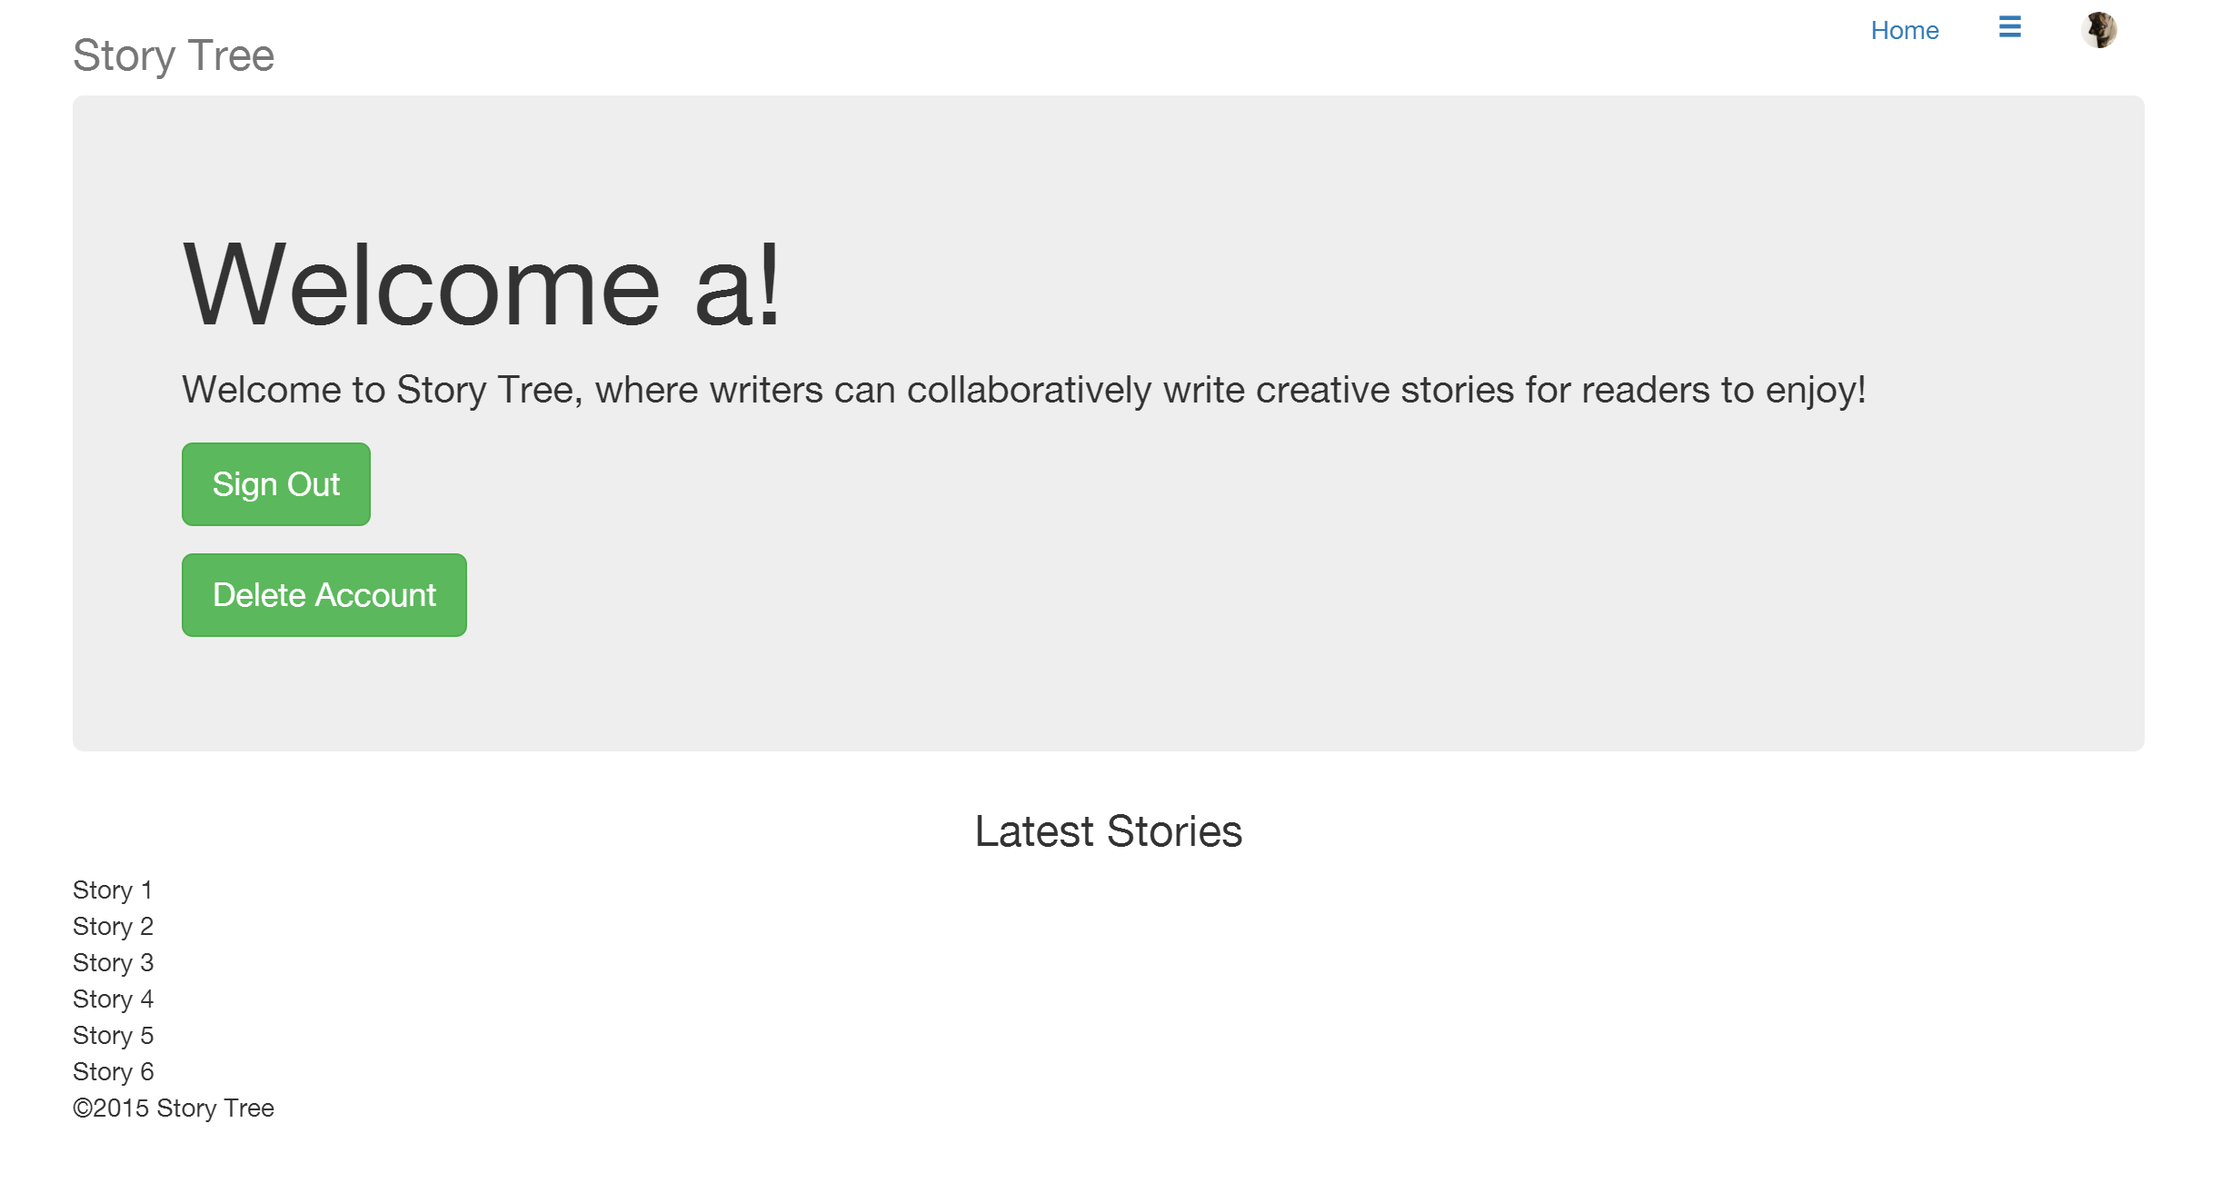
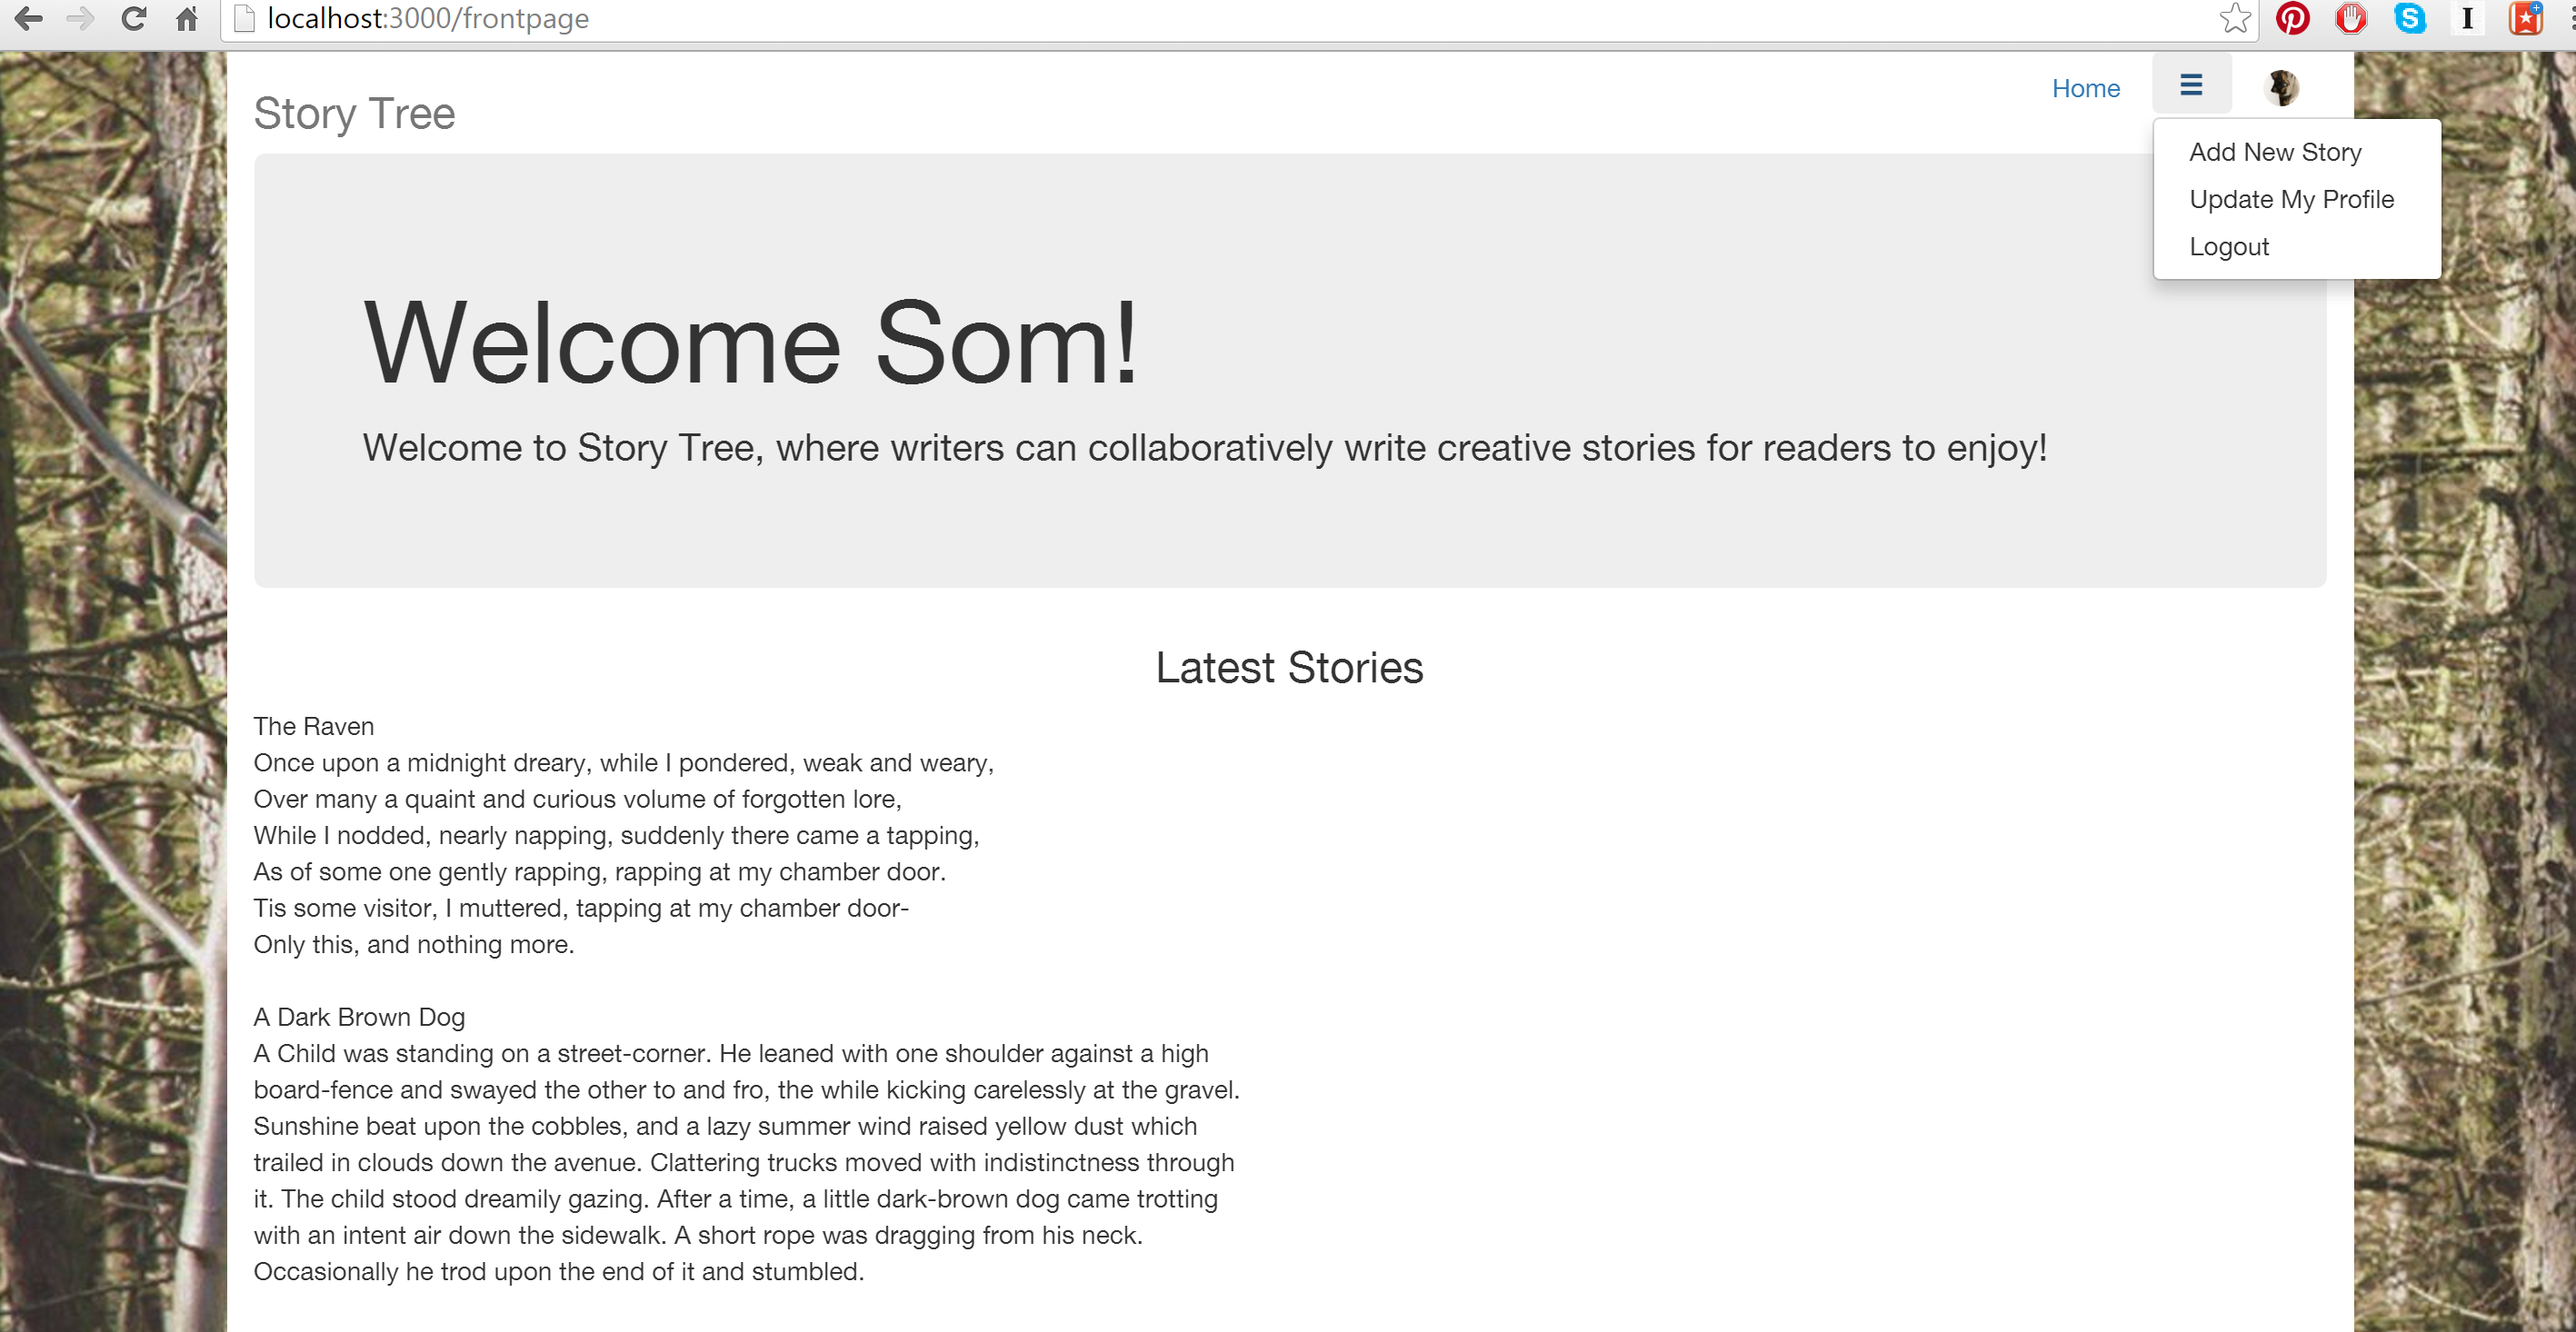
added pictures and background image

Changed region(s): [[0.0, 0.0, 1.0, 1.0], [0.4354, 0.6759, 0.5597, 0.7373], [0.4354, 0.4916, 0.5597, 0.5223]]

diff --git a/static_files/frontpage.html b/static_files/frontpage.html
@@ -94,9 +94,9 @@
 
 </head>
 
-<body>
+<body background="trees.jpg">
 
-    <div class="container">
+    <div class="container" style="background-color:white;">
 
     
 
@@ -116,7 +116,7 @@
         <ul class="dropdown-menu">
             <li id="newStoryPage"><a href="newStory.html">Add New Story</a></li>
           <li id="updatePage"><a href="update.html">Update My Profile</a></li>
-          <li id="loginPage"><a href="login.html">Login</a></li>
+          <li id="logout"><a href="#">Logout</a></li>
         </ul>
       </li>
 
@@ -136,8 +136,7 @@
         <h1 id="welcomeTag">Jumbotron heading</h1>
         <p class="lead">Welcome to Story Tree, where writers can collaboratively write creative stories for readers to enjoy!</p>
         
-        <p><a class="btn btn-lg btn-success" href="#" role="button" id="logout">Sign Out</a></p>
-
+       
 
       </div>
 

diff --git a/static_files/newStory.html b/static_files/newStory.html
@@ -28,6 +28,12 @@
            }
         }
 
+        
+            $("#logout").click(function() {
+            localStorage.removeItem("email");
+            window.location.href = "login";
+        });
+
           $("#createButton").click(function() {
         $.ajax({
           // The URL for the request -- note the simple REST API!
@@ -76,9 +82,9 @@
         </a>
         
         <ul class="dropdown-menu">
-            <li id="newStoryPage"><a href="newStory.html">Add New Story</a></li>
+           <li id="newStoryPage"><a href="newStory.html">Add New Story</a></li>
           <li id="updatePage"><a href="update.html">Update My Profile</a></li>
-          <li id="loginPage"><a href="login.html">Login</a></li>
+          <li id="logout"><a href="#">Logout</a></li>
         </ul>
       </li>
 

diff --git a/static_files/read.html b/static_files/read.html
@@ -26,6 +26,12 @@
            $("#loginPage").click(function() {
               window.location.href = "login";
            }
+
+           
+            $("#logout").click(function() {
+            localStorage.removeItem("email");
+            window.location.href = "login";
+        });
         }
 
 
@@ -53,9 +59,9 @@
         </a>
         
         <ul class="dropdown-menu">
-            <li id="newStoryPage"><a href="newStory.html">Add New Story</a></li>
+           <li id="newStoryPage"><a href="newStory.html">Add New Story</a></li>
           <li id="updatePage"><a href="update.html">Update My Profile</a></li>
-          <li id="loginPage"><a href="login.html">Login</a></li>
+          <li id="logout"><a href="#">Logout</a></li>
         </ul>
       </li>
 

diff --git a/static_files/update.html b/static_files/update.html
@@ -32,6 +32,12 @@
 					$inputEmail.html(emailName);
 				}
 
+				
+            $("#logout").click(function() {
+            localStorage.removeItem("email");
+            window.location.href = "login";
+        });
+
 		$("#delete").click(function() {
 			    $.ajax({
 
@@ -106,8 +112,8 @@
 		    
         <ul class="dropdown-menu">
 		      	<li id="newStoryPage"><a href="newStory.html">Add New Story</a></li>
-			    <li id="updatePage"><a href="update.html">Update My Profile</a></li>
-			    <li id="loginPage"><a href="login.html">Login</a></li>
+	          <li id="updatePage"><a href="update.html">Update My Profile</a></li>
+	          <li id="logout"><a href="#">Logout</a></li>
 		    </ul>
 		  </li>
 

diff --git a/static_files/profile.html b/static_files/profile.html
@@ -44,9 +44,9 @@
         </a>
         
         <ul class="dropdown-menu">
-            <li id="newStoryPage"><a href="newStory.html">Add New Story</a></li>
+           <li id="newStoryPage"><a href="newStory.html">Add New Story</a></li>
           <li id="updatePage"><a href="update.html">Update My Profile</a></li>
-          <li id="loginPage"><a href="login.html">Login</a></li>
+          <li id="logout"><a href="#">Logout</a></li>
         </ul>
       </li>
 
